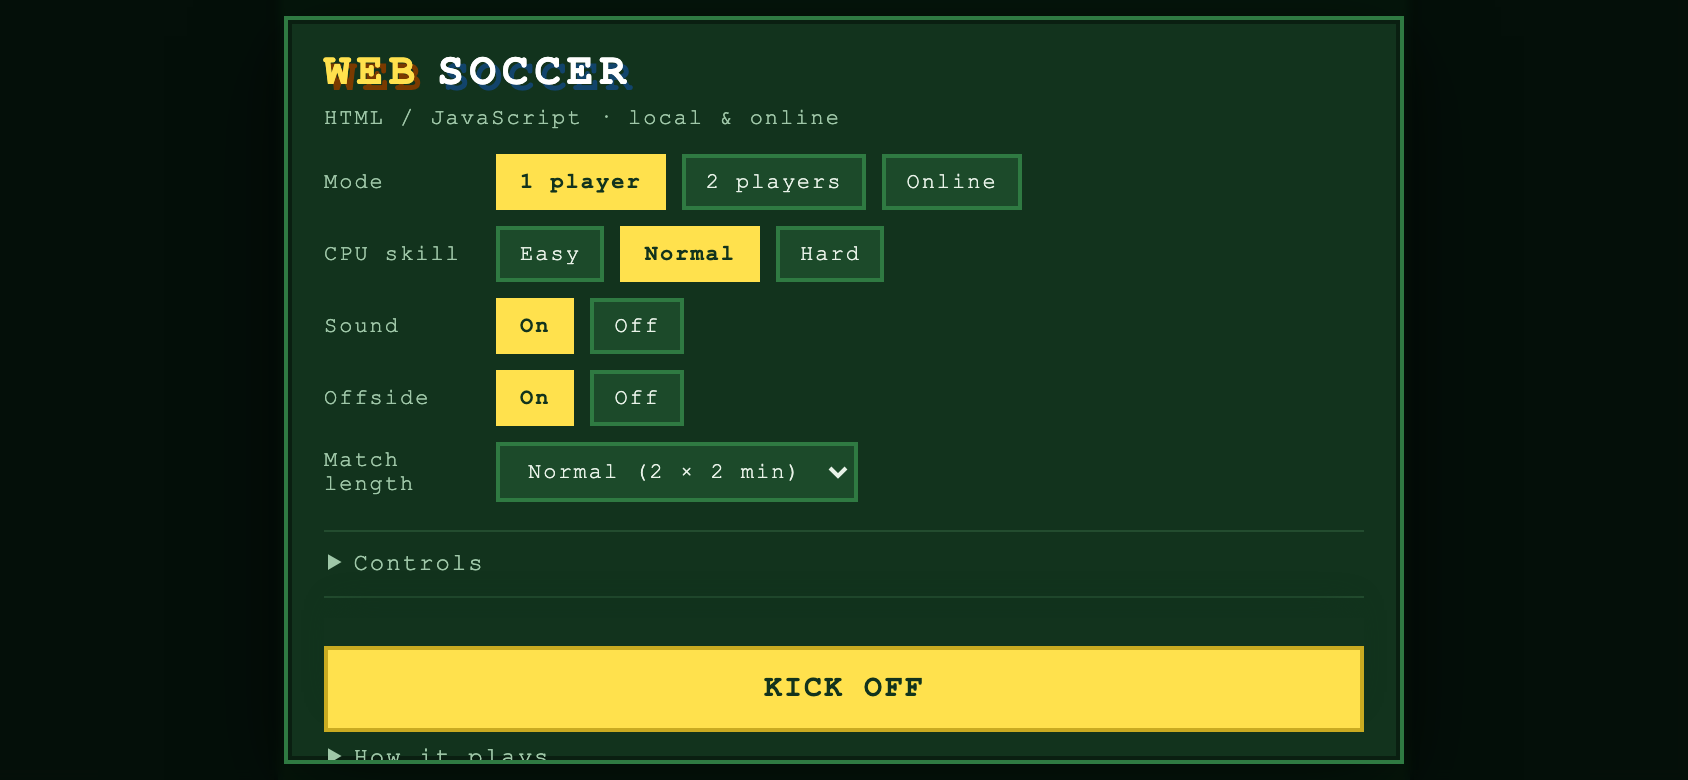
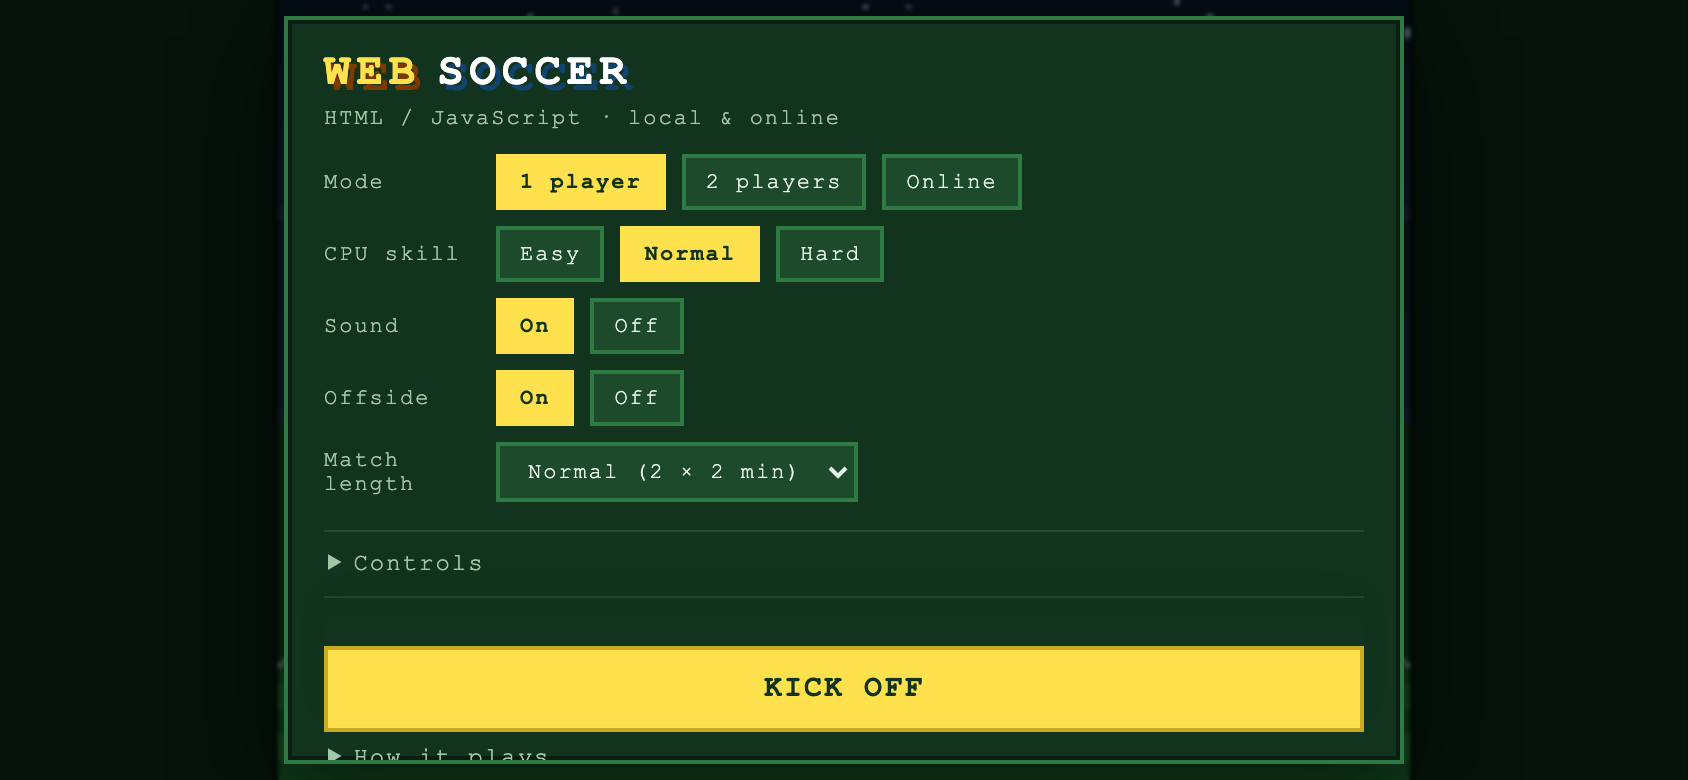
Draw a pixel art title screen behind the menu
A night match seen from the top of the stand: banded sky, stars, floodlight
pylons with their glow on the sky, a crowd of single pixels, and a pitch
tapering away to the goal. Painted into a 240 by 166 offscreen canvas and
blown up with smoothing off, so the pixels stay square.

No image file: it is drawn in code like everything else here, and the crowd
is placed with a seeded generator so the same faces sit in the same seats on
every redraw rather than shimmering.

The menu overlay is lighter now that there is something worth seeing behind
it.

Changed region(s): [[0.154, 0.9538, 0.8318, 1.0]]

diff --git a/src/render/titlescreen.js b/src/render/titlescreen.js
@@ -1,0 +1,193 @@
+/**
+ * The picture behind the menu: a night match seen from the top of the stand.
+ *
+ * Drawn once into a small offscreen canvas - 240 by 166 - and then blown up with
+ * smoothing switched off, which is what gives it real chunky pixels rather than
+ * a blurred illustration. No image file, same as everything else here.
+ *
+ * The crowd is placed with a seeded generator, so the same faces sit in the same
+ * seats every time instead of shimmering on each redraw.
+ */
+
+const ART_W = 240;
+const ART_H = 166;
+
+const SKY_TOP = '#080c26';
+const SKY_LOW = '#1a2352';
+const STAND_BACK = '#161b38';
+const STAND_FRONT = '#20284d';
+const CONCRETE = '#2c3358';
+const TOWER = '#232a45';
+const LAMP = '#ffe89a';
+const GRASS_DARK = '#1d6b2c';
+const GRASS_LIGHT = '#2b8b3c';
+const SURROUND = '#14401f';
+const LINE = '#e8f2e8';
+
+const SHIRTS = ['#d33b3b', '#2f6fd0', '#f2d43c', '#e8e8e8', '#3ad07a', '#c06de0'];
+
+/** Same seed, same crowd, every time. */
+function rng(seed) {
+  let s = seed | 0;
+  return () => {
+    s = (s + 0x6d2b79f5) | 0;
+    let t = s;
+    t = Math.imul(t ^ (t >>> 15), 1 | t);
+    t = (t + Math.imul(t ^ (t >>> 7), 61 | t)) ^ t;
+    return ((t ^ (t >>> 14)) >>> 0) / 4294967296;
+  };
+}
+
+function drawScene(g) {
+  const rand = rng(20260817);
+
+  // Sky, banded rather than smoothly graded: a gradient would betray the era.
+  const bands = 7;
+  for (let i = 0; i < bands; i++) {
+    const t = i / (bands - 1);
+    g.fillStyle = mix(SKY_TOP, SKY_LOW, t);
+    g.fillRect(0, Math.round((i * 46) / bands), ART_W, Math.ceil(46 / bands) + 1);
+  }
+
+  // Stars, thinning out towards the floodlit part of the sky.
+  for (let i = 0; i < 70; i++) {
+    const x = Math.floor(rand() * ART_W);
+    const y = Math.floor(rand() * 40);
+    if (rand() < y / 44) continue;
+    g.fillStyle = rand() < 0.25 ? '#8f9ad0' : '#cfd8ff';
+    g.fillRect(x, y, 1, 1);
+  }
+
+  // Floodlight pylons, one either side, with their glow spilling onto the sky.
+  for (const x of [26, ART_W - 30]) {
+    g.fillStyle = 'rgba(255, 232, 154, 0.07)';
+    g.beginPath();
+    g.moveTo(x + 2, 16);
+    g.lineTo(x - 46, 96);
+    g.lineTo(x + 50, 96);
+    g.closePath();
+    g.fill();
+
+    g.fillStyle = TOWER;
+    g.fillRect(x, 14, 4, 44); // mast
+    for (let row = 0; row < 2; row++) {
+      for (let lamp = 0; lamp < 4; lamp++) {
+        g.fillStyle = LAMP;
+        g.fillRect(x - 7 + lamp * 5, 8 + row * 4, 3, 3);
+      }
+    }
+    g.fillStyle = 'rgba(255, 232, 154, 0.22)';
+    g.fillRect(x - 9, 6, 22, 11);
+  }
+
+  // The far stand: two tiers, a roof line, and a crowd of single pixels.
+  g.fillStyle = STAND_BACK;
+  g.fillRect(0, 46, ART_W, 20);
+  g.fillStyle = CONCRETE;
+  g.fillRect(0, 44, ART_W, 3);
+  g.fillStyle = STAND_FRONT;
+  g.fillRect(0, 66, ART_W, 22);
+
+  for (let y = 49; y < 86; y += 2) {
+    for (let x = 2; x < ART_W - 2; x += 2) {
+      if (rand() < 0.42) continue;
+      g.fillStyle = rand() < 0.13 ? SHIRTS[Math.floor(rand() * SHIRTS.length)] : shade(rand());
+      g.fillRect(x, y, 1, 1);
+    }
+  }
+
+  // A dark rail between the crowd and the grass.
+  g.fillStyle = CONCRETE;
+  g.fillRect(0, 87, ART_W, 3);
+  g.fillStyle = SURROUND;
+  g.fillRect(0, 90, ART_W, 8);
+
+  // Everything below the rail is ground, so the grass has something to sit on
+  // instead of the sky showing through beside the pitch.
+  g.fillStyle = SURROUND;
+  g.fillRect(0, 90, ART_W, ART_H - 90);
+
+  // The pitch, in perspective: each row is a touch wider than the one above it.
+  const top = 98;
+  const bottom = ART_H;
+  const halfAt = (y) => 52 + ((y - top) / (bottom - top)) * 108;
+  for (let y = top; y < bottom; y++) {
+    const t = (y - top) / (bottom - top);
+    const half = halfAt(y);
+    const x0 = Math.round(ART_W / 2 - half);
+    const x1 = Math.round(ART_W / 2 + half);
+    // Stripes that widen as they come towards you.
+    const stripe = Math.floor((t * t * 5 + t * 4) % 2);
+    g.fillStyle = stripe ? GRASS_LIGHT : GRASS_DARK;
+    g.fillRect(x0, y, x1 - x0, 1);
+    // Touchlines, one pixel each, following the same taper.
+    g.fillStyle = LINE;
+    g.fillRect(x0, y, 1, 1);
+    g.fillRect(x1 - 1, y, 1, 1);
+  }
+
+  // Centre circle, squashed by the perspective.
+  g.strokeStyle = 'rgba(232, 242, 232, 0.85)';
+  g.lineWidth = 1;
+  g.beginPath();
+  g.ellipse(ART_W / 2, 124.5, 26, 7, 0, 0, Math.PI * 2);
+  g.stroke();
+
+  // The goal at the far end: posts, bar, and a net you can see the crowd through.
+  const goalW = 30;
+  const gx = Math.round(ART_W / 2 - goalW / 2);
+  g.fillStyle = 'rgba(20, 30, 22, 0.45)';
+  g.fillRect(gx, 88, goalW, 10);
+  g.fillStyle = 'rgba(232, 242, 232, 0.4)';
+  for (let x = gx; x <= gx + goalW; x += 3) g.fillRect(x, 88, 1, 10);
+  for (let y = 88; y <= 98; y += 3) g.fillRect(gx, y, goalW, 1);
+  g.fillStyle = LINE;
+  g.fillRect(gx, 88, 1, 11); // left post
+  g.fillRect(gx + goalW, 88, 1, 11); // right post
+  g.fillRect(gx, 87, goalW + 1, 1); // crossbar
+
+  // Penalty box: two lines converging towards the goal, closed off at the front.
+  g.strokeStyle = 'rgba(232, 242, 232, 0.85)';
+  g.lineWidth = 1;
+  g.beginPath();
+  g.moveTo(ART_W / 2 - 40, 112.5);
+  g.lineTo(ART_W / 2 - 26, 98.5);
+  g.moveTo(ART_W / 2 + 40, 112.5);
+  g.lineTo(ART_W / 2 + 26, 98.5);
+  g.moveTo(ART_W / 2 - 40, 112.5);
+  g.lineTo(ART_W / 2 + 40, 112.5);
+  g.stroke();
+
+  // The ball on the spot, small and unmistakable.
+  g.fillStyle = '#ffffff';
+  g.fillRect(ART_W / 2 - 1, 137, 3, 2);
+  g.fillRect(ART_W / 2, 136, 1, 4);
+}
+
+function shade(r) {
+  const v = 40 + Math.floor(r * 70);
+  return `rgb(${v}, ${v + 6}, ${v + 22})`;
+}
+
+function mix(a, b, t) {
+  const pa = [1, 3, 5].map((i) => parseInt(a.slice(i, i + 2), 16));
+  const pb = [1, 3, 5].map((i) => parseInt(b.slice(i, i + 2), 16));
+  const c = pa.map((v, i) => Math.round(v + (pb[i] - v) * t));
+  return `rgb(${c[0]}, ${c[1]}, ${c[2]})`;
+}
+
+let art = null;
+
+/** Blits the scene across the whole canvas, pixels intact. */
+export function drawTitleScreen(ctx, width, height) {
+  if (!art) {
+    art = document.createElement('canvas');
+    art.width = ART_W;
+    art.height = ART_H;
+    drawScene(art.getContext('2d'));
+  }
+  ctx.setTransform(1, 0, 0, 1, 0, 0);
+  ctx.imageSmoothingEnabled = false; // the whole point: keep the pixels square
+  ctx.drawImage(art, 0, 0, ART_W, ART_H, 0, 0, width, height);
+  ctx.imageSmoothingEnabled = true;
+}

diff --git a/src/main.js b/src/main.js
@@ -5,6 +5,7 @@ import {
 import { createMatch } from './game/state.js';
 import { step } from './game/sim.js';
 import { Renderer } from './render/renderer.js';
+import { drawTitleScreen } from './render/titlescreen.js';
 import { LocalTransport, OnlineTransport } from './net/transport.js';
 import { Signal } from './net/signal.js';
 import { AudioEngine, Chiptune, Sfx } from './audio.js';
@@ -155,7 +156,12 @@ function frame(now) {
   const elapsed = Math.min(0.25, (now - game.last) / 1000);
   game.last = now;
 
-  if (!game.state) return;
+  if (!game.state) {
+    // Nothing to simulate yet, so the canvas shows the title picture instead of
+    // an empty green field behind the menu.
+    drawTitleScreen(renderer.ctx, canvas.width, canvas.height);
+    return;
+  }
 
   if (!game.paused) {
     game.acc += elapsed;

diff --git a/styles.css b/styles.css
@@ -44,8 +44,10 @@ html, body {
   inset: 0;
   display: grid;
   place-items: center;
-  background: rgba(4, 14, 8, 0.82);
-  backdrop-filter: blur(2px);
+  /* Lighter than it was: there is a picture behind this now, and it should be
+     visible around the panel. */
+  background: rgba(4, 14, 8, 0.55);
+  backdrop-filter: blur(1px);
   z-index: 10;
 }
 

diff --git a/README.md b/README.md
@@ -121,6 +121,16 @@ timing in ticks stay exactly where they were, so nothing plays differently, it
 just gives you more time on the ball. Set it back to 1 if you want the original
 tempo.
 
+## The title screen
+
+The picture behind the menu is drawn, not loaded: a night match seen from the top
+of the stand, painted into a 240 by 166 offscreen canvas and blown up with
+smoothing switched off, which is what keeps the pixels square instead of turning
+it into a blurred illustration. Floodlight pylons with their glow spilling onto
+the sky, a crowd of single pixels placed by a seeded generator so the same faces
+sit in the same seats every time, and a pitch tapering away towards the goal.
+It lives in `src/render/titlescreen.js`.
+
 ## The title tune
 
 There is no audio file. The tune on the menu is generated as you listen, with the
